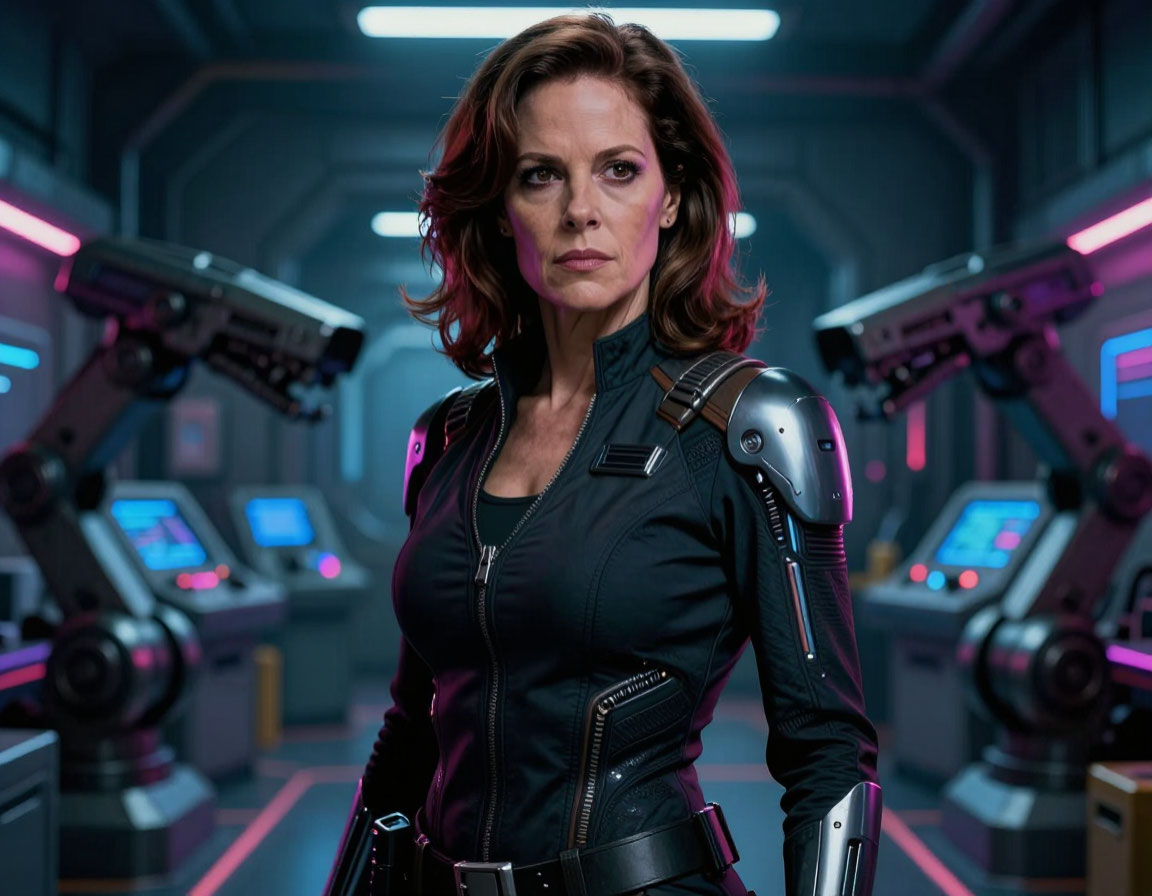
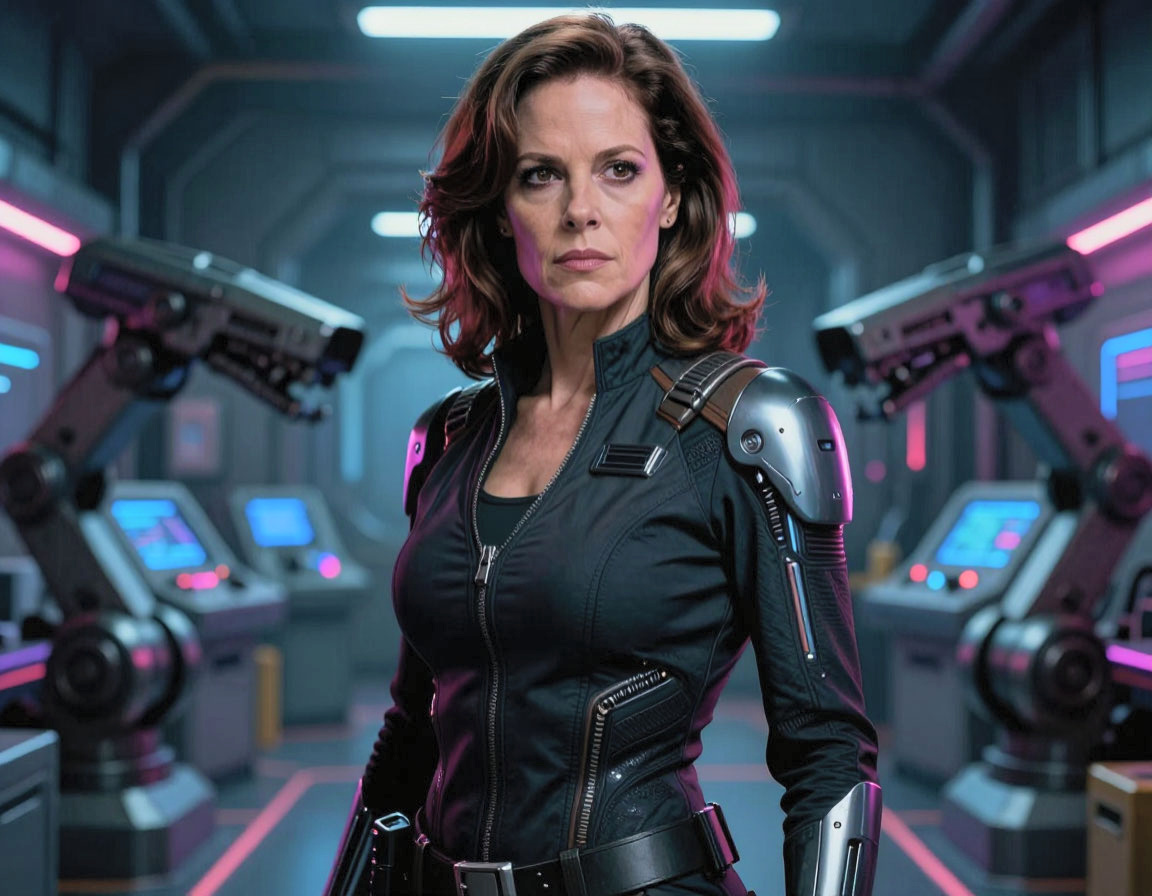
feat: иллюстрации уникальных полковников осветлены под печать
- print/UniqueColonel/images: 11 иллюстраций без перегенерации, гамма
  по L* (тени и средние тона), цвет, чёрная и белая точки не менялись;
  уровни выбраны по пробному листу: 0,85 — Кейн, Рэйвен, Распутин;
  0,65 — Ковач, Брут; 0,75 — остальные
- исходники — локально в archive/полковники-иллюстрации-до-осветления-2026-10-01
- print/ПЕЧАТЬ.md: общий пункт про тёмный арт и пробный лист,
  раздел про полковников с уровнями осветления

Claude-Session: https://claude.ai/code/session_01EhDwdx8WH1NGXaHnNf6Vsm

diff --git a/print/ПЕЧАТЬ.md b/print/ПЕЧАТЬ.md
@@ -19,6 +19,9 @@
    Раскладки без выпуска — только для печати без полей.
 6. **Готовые PDF** — в `print/Saved/`. Пересобираются из HTML-страницы компонента:
    «Печать → Сохранить как PDF» с теми же настройками.
+7. **Тёмный арт на бумаге темнее, чем на экране.** Перед тиражом — пробный лист
+   с вариантами осветления на той же бумаге и с теми же настройками драйвера.
+   Выбранный вариант заменяет файл в `images/`, исходник уходит в `archive/`.
 
 ## Памятка игрока — `print/Памятка.html`
 
@@ -50,6 +53,18 @@
 Восемь карт, у каждой фракции своя, поэтому оборот **зеркален по столбцам**:
 печатать двусторонне с переворотом **по длинному краю**. Перед тиражом —
 пробный лист: лицо и оборот одной карты должны быть одной фракции (логотип в шапке).
+
+## Уникальные полковники — `print/UniqueColonel/index.html`
+
+Иллюстрации осветлены под печать 2026-10-01 по пробному листу: подняты тени
+и средние тона по яркости (гамма по L*), цвет, чёрная и белая точки не менялись.
+Исходники — `archive/полковники-иллюстрации-до-осветления-2026-10-01/`.
+
+| Уровень | Гамма L* | Полковники |
+|---|---|---|
+| Слегка | 0,85 | Кейн, Рэйвен, Распутин |
+| Умеренно | 0,75 | Морроу, Исии, Тайрелл, Крамер, Клоуз, Гарднер |
+| Заметно | 0,65 | Ковач, Брут |
 
 ## Пример: Canon PIXMA G3430
 
